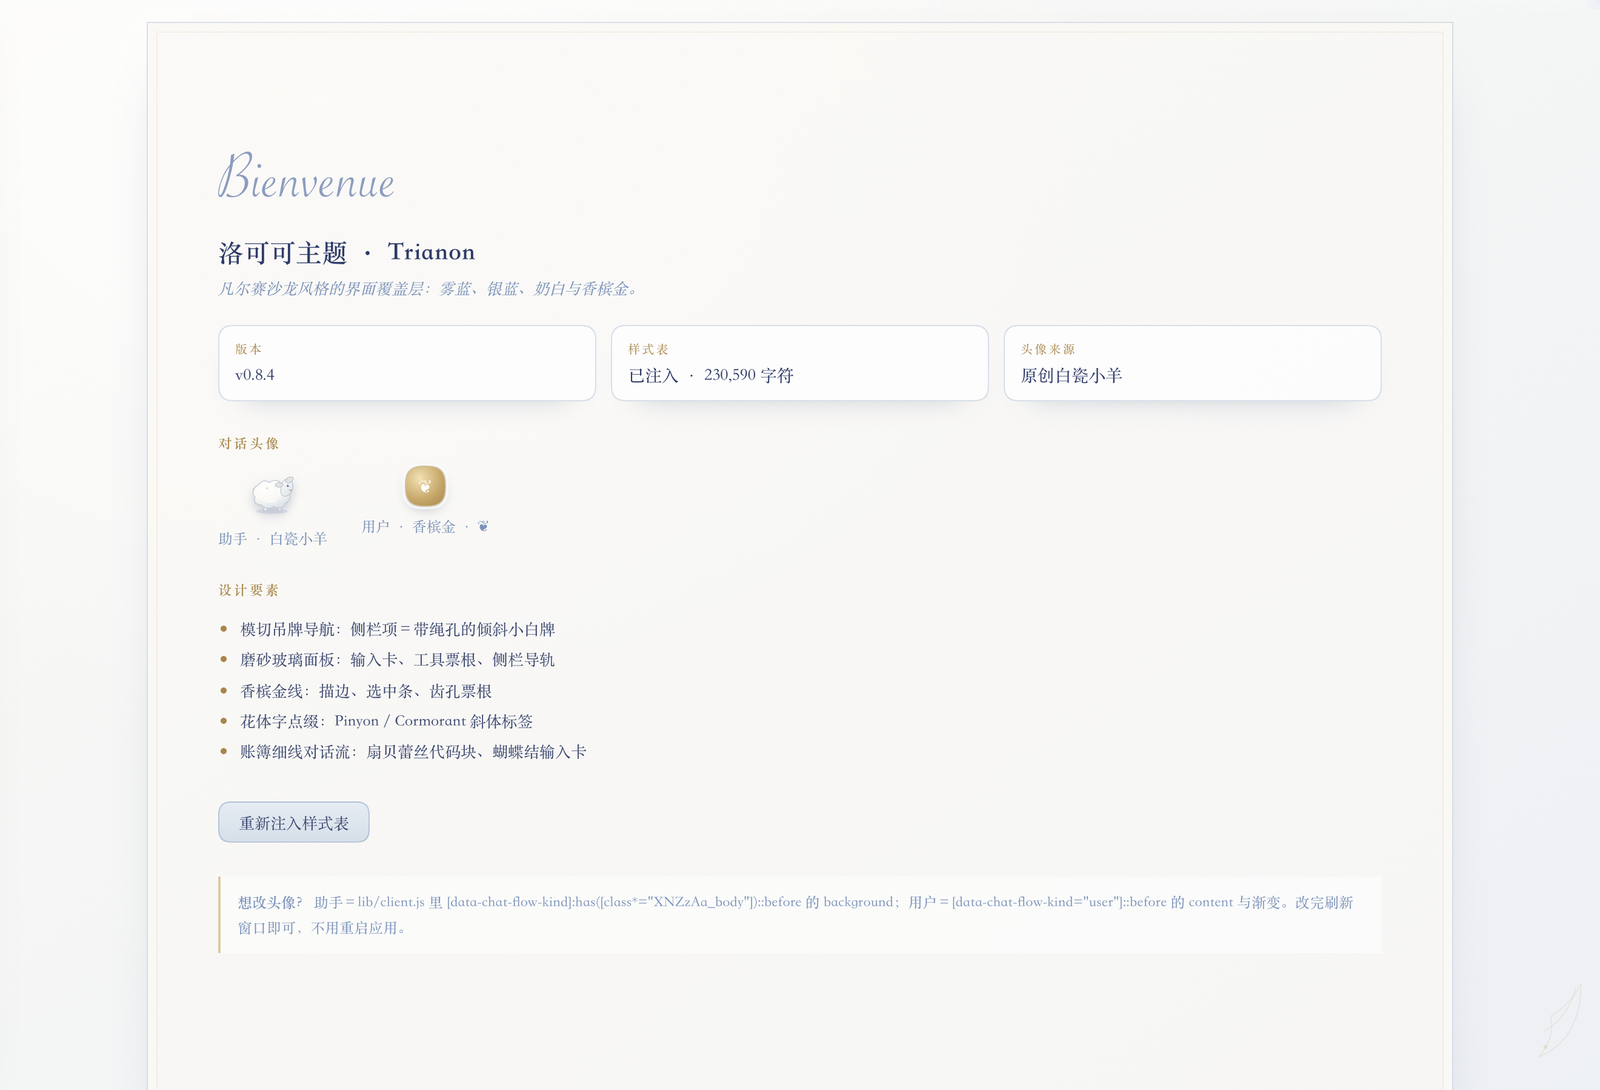
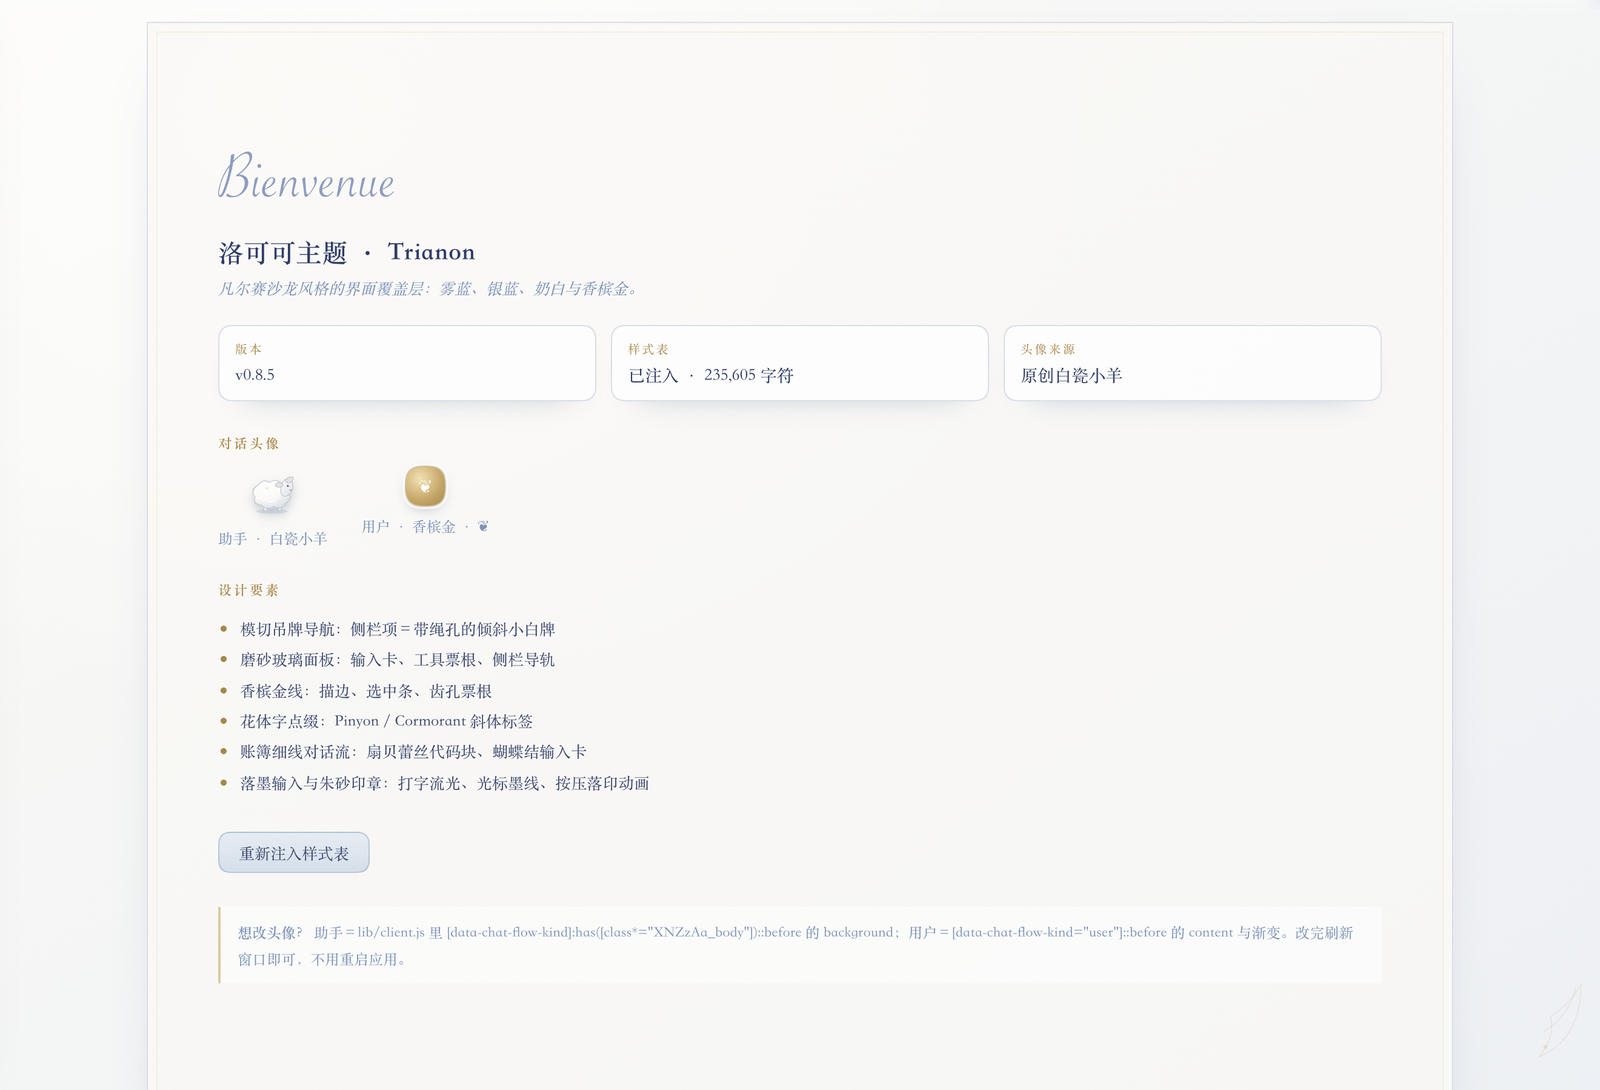
feat: add streaming ink input and cinnabar seal send animation

diff --git a/lib/client.js b/lib/client.js
@@ -1421,6 +1421,105 @@ body[data-ds-dark-theme] [data-step-process-icon] { border-color: rgba(228,232,2
 [data-approval-key] [class*="_headline"]::after { content: none !important; display: none !important; }
 [data-conversation-region="chat"]:has([data-approval-key])::before,
 [data-conversation-region="chat"]:has([data-approval-key])::after { display: none !important; }
+
+/* ==========================================================================
+   ⑫ 落墨输入 + 朱砂印章发送
+   动画类由下方 installComposerMotion 在 input / click 时短暂添加。
+   ========================================================================== */
+[data-composer-card] [contenteditable="true"].tri-is-typing {
+  animation: tri-stream-ink .68s cubic-bezier(.2,.7,.25,1);
+}
+[data-composer-card].tri-is-typing {
+  filter: drop-shadow(0 18px 32px rgba(40,52,95,.26));
+}
+@keyframes tri-stream-ink {
+  0% { opacity: .58; transform: translateX(-3px); filter: blur(.45px); text-shadow: 0 0 12px rgba(199,168,106,.5); }
+  38% { opacity: .92; transform: translateX(1px); filter: blur(0); text-shadow: 3px 0 16px rgba(124,147,186,.34); }
+  100% { opacity: 1; transform: translateX(0); filter: none; text-shadow: none; }
+}
+/* 光标处的一次性墨线与小星芒，元素由 JS 定位并自动移除 */
+.tri-ink-spark {
+  position: fixed; z-index: 2147483200; width: 56px; height: 28px;
+  pointer-events: none; opacity: 0;
+  background: linear-gradient(90deg,transparent,rgba(199,168,106,.7),rgba(124,147,186,.5),transparent) center / 100% 2px no-repeat;
+  animation: tri-ink-spark .68s ease-out forwards;
+}
+.tri-ink-spark::before {
+  content: "✦"; position: absolute; right: 3px; top: 0;
+  color: #C7A86A; font-family: var(--tri-serif); font-size: 15px;
+  text-shadow: 0 0 8px rgba(233,215,168,.8);
+}
+@keyframes tri-ink-spark {
+  0% { opacity: 0; transform: translate(-24px,-14px) scaleX(.3); }
+  24% { opacity: .9; }
+  100% { opacity: 0; transform: translate(8px,-14px) scaleX(1.15); }
+}
+/* 发送按钮 → 朱砂印章 */
+[data-composer-card] button[aria-label="发送消息"] {
+  position: relative; overflow: visible; width: 46px; height: 46px; flex: 0 0 46px;
+  border: 1px solid #8E4B47 !important; border-radius: 12px !important;
+  background:
+    linear-gradient(135deg,rgba(255,255,255,.18),transparent 42%),
+    linear-gradient(180deg,#B66B5F,#8E4B47) !important;
+  color: #FFF8EC !important;
+  box-shadow: 0 6px 0 #713B3B,0 10px 18px -8px rgba(80,45,55,.6),inset 0 1px 0 rgba(255,255,255,.25) !important;
+  transform: translateY(-3px) rotate(-2deg);
+  transition: transform .2s var(--tri-spring),box-shadow .2s ease,filter .2s ease;
+}
+/* 覆盖主页旧版雾蓝 primary 规则（多一个 class 属性以提高优先级） */
+[data-composer-card] button[aria-label="发送消息"][class*="_primary"] {
+  border-color: #8E4B47 !important; color: #FFF8EC !important;
+  background:
+    linear-gradient(135deg,rgba(255,255,255,.18),transparent 42%),
+    linear-gradient(180deg,#B66B5F,#8E4B47) !important;
+}
+[data-composer-card] button[aria-label="发送消息"] > svg { opacity: 0; }
+[data-composer-card] button[aria-label="发送消息"]::before {
+  content: "印"; position: absolute; inset: 6px; display: grid; place-items: center;
+  border: 1px solid rgba(255,248,236,.72); border-radius: 7px;
+  font-family: var(--tri-serif); font-size: 21px; font-weight: 600; line-height: 1;
+  text-shadow: 0 1px 1px rgba(80,45,55,.35);
+}
+[data-composer-card] button[aria-label="发送消息"]:hover:not(:disabled) {
+  transform: translateY(-5px) rotate(1deg);
+  filter: saturate(1.08);
+  box-shadow: 0 8px 0 #713B3B,0 14px 22px -8px rgba(80,45,55,.62),inset 0 1px 0 rgba(255,255,255,.25) !important;
+}
+[data-composer-card] button[aria-label="发送消息"]:disabled {
+  opacity: .48; filter: grayscale(.45); box-shadow: 0 3px 0 #8B7772 !important;
+}
+[data-composer-card] button[aria-label="发送消息"]::after {
+  content: "已印"; position: absolute; left: 50%; top: -64px; width: 52px; height: 52px;
+  display: grid; place-items: center; pointer-events: none; opacity: 0;
+  border: 2px solid rgba(158,75,68,.72); border-radius: 50%; color: #A65B50;
+  background: rgba(255,253,246,.55); font-family: var(--tri-serif); font-size: 14px;
+  font-weight: 600; letter-spacing: .1em; transform: translateX(-50%) rotate(-12deg);
+  box-shadow: inset 0 0 0 3px rgba(166,91,80,.12);
+}
+[data-composer-card] button[aria-label="发送消息"].tri-seal-pressing {
+  animation: tri-seal-press .68s var(--tri-spring);
+}
+[data-composer-card] button[aria-label="发送消息"].tri-seal-pressing::after {
+  animation: tri-seal-mark .72s ease-out;
+}
+@keyframes tri-seal-press {
+  0% { transform: translateY(-3px) rotate(-2deg) scale(1); }
+  32% { transform: translateY(5px) rotate(0) scale(.9); box-shadow: 0 1px 0 #713B3B,0 4px 8px -5px rgba(80,45,55,.6); }
+  58% { transform: translateY(-6px) rotate(-4deg) scale(1.06); }
+  100% { transform: translateY(-3px) rotate(-2deg) scale(1); }
+}
+@keyframes tri-seal-mark {
+  0%,20% { opacity: 0; transform: translateX(-50%) translateY(-12px) rotate(-12deg) scale(1.3); }
+  42% { opacity: .88; transform: translateX(-50%) translateY(0) rotate(-12deg) scale(.96); }
+  72% { opacity: .7; }
+  100% { opacity: 0; transform: translateX(-50%) translateY(5px) rotate(-12deg) scale(1.04); }
+}
+@media (prefers-reduced-motion: reduce) {
+  .tri-ink-spark { display: none; }
+  [data-composer-card] [contenteditable="true"].tri-is-typing,
+  [data-composer-card] button[aria-label="发送消息"].tri-seal-pressing,
+  [data-composer-card] button[aria-label="发送消息"].tri-seal-pressing::after { animation-duration: .01ms; }
+}
 `
 
       function installCss() {
@@ -1447,7 +1546,7 @@ body[data-ds-dark-theme] [data-step-process-icon] { border-color: rgba(228,232,2
       // 这里补一条 sidebar.panellist 行 + 一个 main 面板页，让主题有落脚点。
       const React = require('react')
       const PANEL_ID = 'rococo-panel'
-      const THEME_VERSION = 'v0.8.4'
+      const THEME_VERSION = 'v0.8.5'
 
       function RococoIcon(props) {
         const size = (props && Number(props.size)) || 16
@@ -1476,6 +1575,7 @@ body[data-ds-dark-theme] [data-step-process-icon] { border-color: rgba(228,232,2
         '香槟金线：描边、选中条、齿孔票根',
         '花体字点缀：Pinyon / Cormorant 斜体标签',
         '账簿细线对话流：扇贝蕾丝代码块、蝴蝶结输入卡',
+        '落墨输入与朱砂印章：打字流光、光标墨线、按压落印动画',
       ]
 
       const AVATARS = [
@@ -1557,20 +1657,93 @@ body[data-ds-dark-theme] [data-step-process-icon] { border-color: rgba(228,232,2
         }
       }
 
+      /**
+       * 输入与印章动效：只监听事件、添加瞬时 CSS 类，不改写编辑器内容，
+       * 也不 preventDefault / stopPropagation，因此宿主的发送与快捷键原样保留。
+       */
+      function installComposerMotion() {
+        try {
+          if (typeof document === 'undefined') return
+          const root = document.documentElement
+          if (root.dataset.triComposerMotion === 'on') return
+          root.dataset.triComposerMotion = 'on'
+          const timers = new WeakMap()
+
+          const restart = (element, className, duration) => {
+            const oldTimer = timers.get(element)
+            if (oldTimer) clearTimeout(oldTimer)
+            element.classList.remove(className)
+            void element.offsetWidth
+            element.classList.add(className)
+            timers.set(element, setTimeout(() => {
+              element.classList.remove(className)
+              timers.delete(element)
+            }, duration))
+          }
+
+          const inkAtCaret = (editor) => {
+            try {
+              const selection = window.getSelection()
+              if (!selection || selection.rangeCount === 0) return
+              const range = selection.getRangeAt(0)
+              if (!editor.contains(range.commonAncestorContainer)) return
+              let rect = range.getBoundingClientRect()
+              if (!rect || (rect.width === 0 && rect.height === 0 && rect.x === 0 && rect.y === 0)) {
+                rect = editor.getBoundingClientRect()
+              }
+              const spark = document.createElement('span')
+              spark.className = 'tri-ink-spark'
+              spark.setAttribute('aria-hidden', 'true')
+              spark.style.left = `${Math.round(rect.x)}px`
+              spark.style.top = `${Math.round(rect.y)}px`
+              document.body.appendChild(spark)
+              setTimeout(() => spark.remove(), 760)
+            } catch (error) {
+              // 选区在某些浏览器/组合输入阶段可能暂时不可用，省略装饰即可。
+            }
+          }
+
+          document.addEventListener('input', (event) => {
+            const target = event.target
+            const editor = target && target.closest
+              ? target.closest('[data-composer-card] [contenteditable="true"]')
+              : null
+            if (!editor) return
+            restart(editor, 'tri-is-typing', 760)
+            const card = editor.closest('[data-composer-card]')
+            if (card) restart(card, 'tri-is-typing', 760)
+            inkAtCaret(editor)
+          }, true)
+
+          document.addEventListener('click', (event) => {
+            const target = event.target
+            const button = target && target.closest
+              ? target.closest('[data-composer-card] button[aria-label="发送消息"]')
+              : null
+            if (!button || button.disabled) return
+            restart(button, 'tri-seal-pressing', 780)
+          }, true)
+        } catch (error) {
+          console.warn('[dsh-rococo-theme] composer motion disabled:', error)
+        }
+      }
+
       /** 需要的客户端服务：slots（侧栏/主面板槽位由 shell 声明后回调）。 */
       exports.inject = ['slots']
 
       /** 插件入口：注入主题样式 + 注册侧栏面板。 */
       exports.apply = (ctx) => {
         installCss()
+        installComposerMotion()
         try { registerPanel(ctx) } catch (error) {
           console.warn('[dsh-rococo-theme] apply panel failed:', error)
         }
       }
 
       // 样式在 factory 阶段就先注入一次：即使宿主没提供 slots、apply 没被调用，
-      // 主题也不会因此失效（installCss 幂等）。
+      // 主题也不会因此失效（installCss / installComposerMotion 均幂等）。
       installCss()
+      installComposerMotion()
 
       return module.exports
     } catch (error) {

diff --git a/README.md b/README.md
@@ -14,6 +14,10 @@ A Rococo visual theme for the DSH Web GUI: misty blue, silver and ivory surfaces
 |---|---|
 | ![主页](assets/screenshot-home.png) | ![对话流](assets/screenshot-chat.png) |
 
+落墨输入与朱砂印章：
+
+![输入框与印章发送按钮](assets/screenshot-composer.png)
+
 授权卡与侧栏「洛可可」面板：
 
 | ![Permission 许可信笺](assets/screenshot-permission.png) | ![洛可可面板](assets/screenshot-panel.png) |
@@ -47,8 +51,9 @@ dsh plugin --profile desktop add link:/absolute/path/to/dsh-rococo-theme
 - **对话头像**：助手与用户消息的圆形徽章由本主题绘制（见下方「头像」）。
 - **Bienvenue 纸面**：主页采用双线纸框、缎带书签、蝴蝶版画与左花体标题／右侧输入卡的构图；个人设置页和「洛可可」面板共用这套纸面语言。
 - **Permission 许可信笺**：所有授权请求统一为双线纸框、花体眉题、雾蓝详情区与火漆玫瑰；允许／始终允许／拒绝按钮及 Enter、Esc 快捷键保持原逻辑。
+- **落墨输入与朱砂印章**：打字时播放轻微流光并在光标处留下短暂墨线；发送按钮为朱砂印章，点击时下压、回弹并浮现「已印」。不改写文字、不拦截 Enter，也不改变发送逻辑。
 
-## 组件清单 / Components（v0.8.4）
+## 组件清单 / Components（v0.8.5）
 
 | 组件 | 位置 | 效果 |
 |---|---|---|
